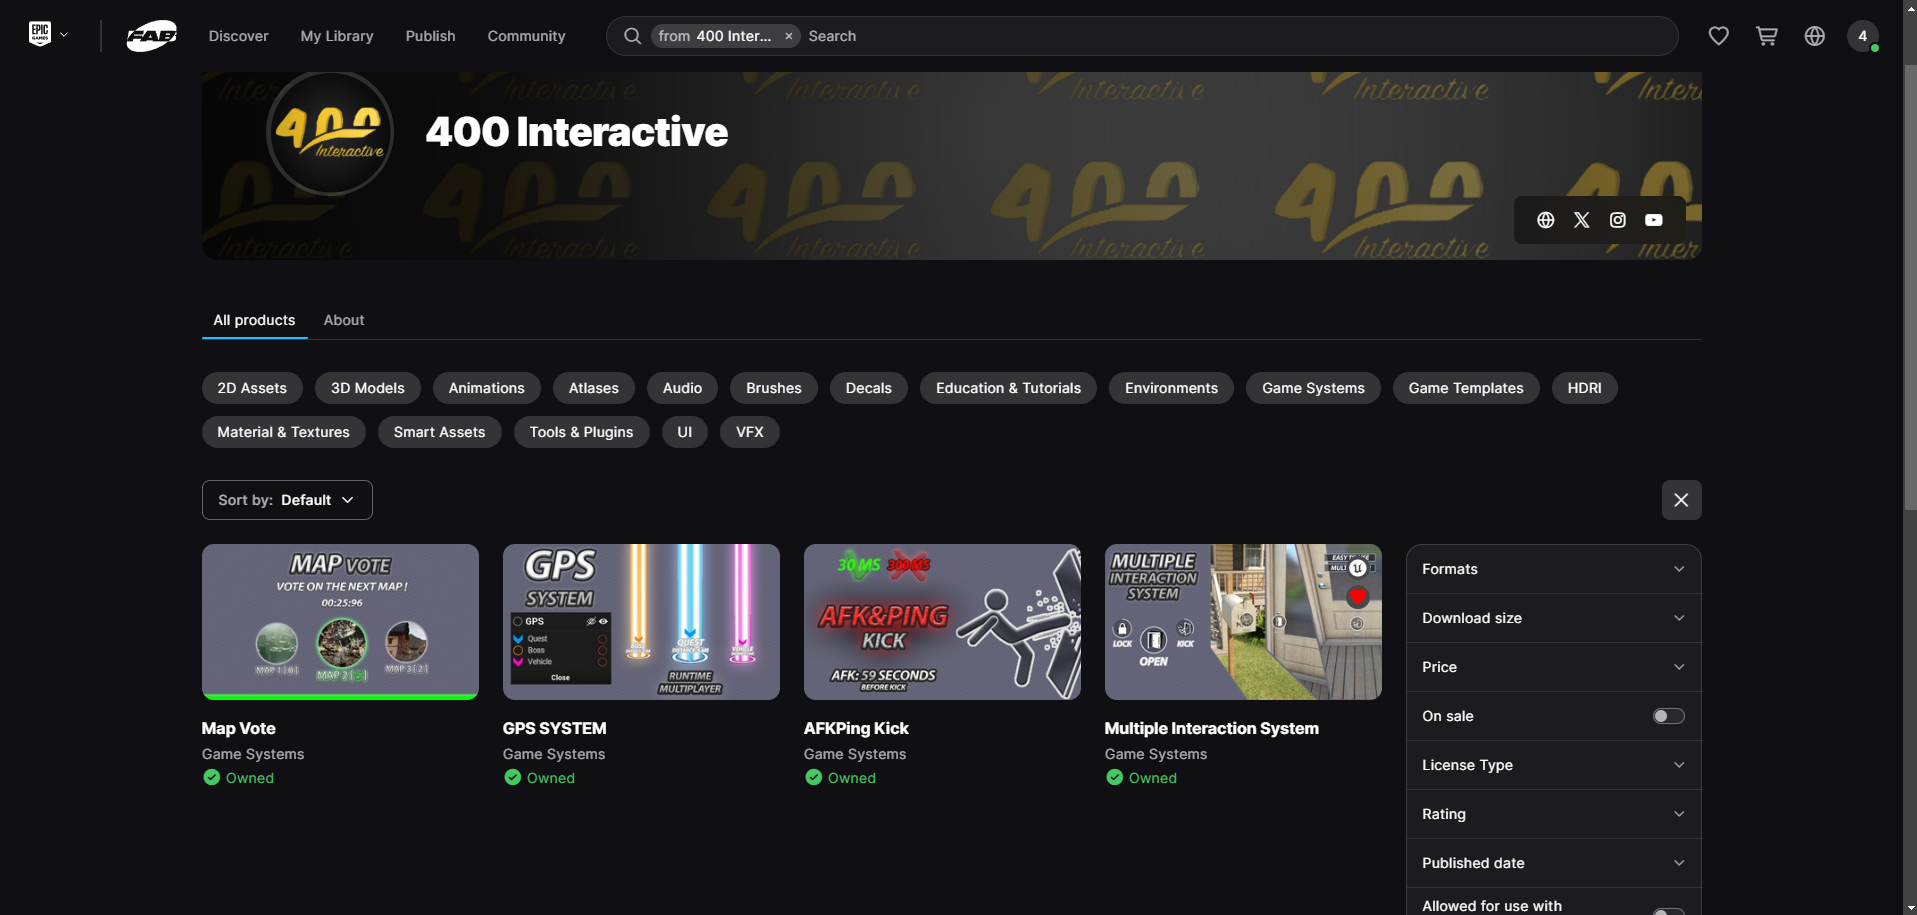
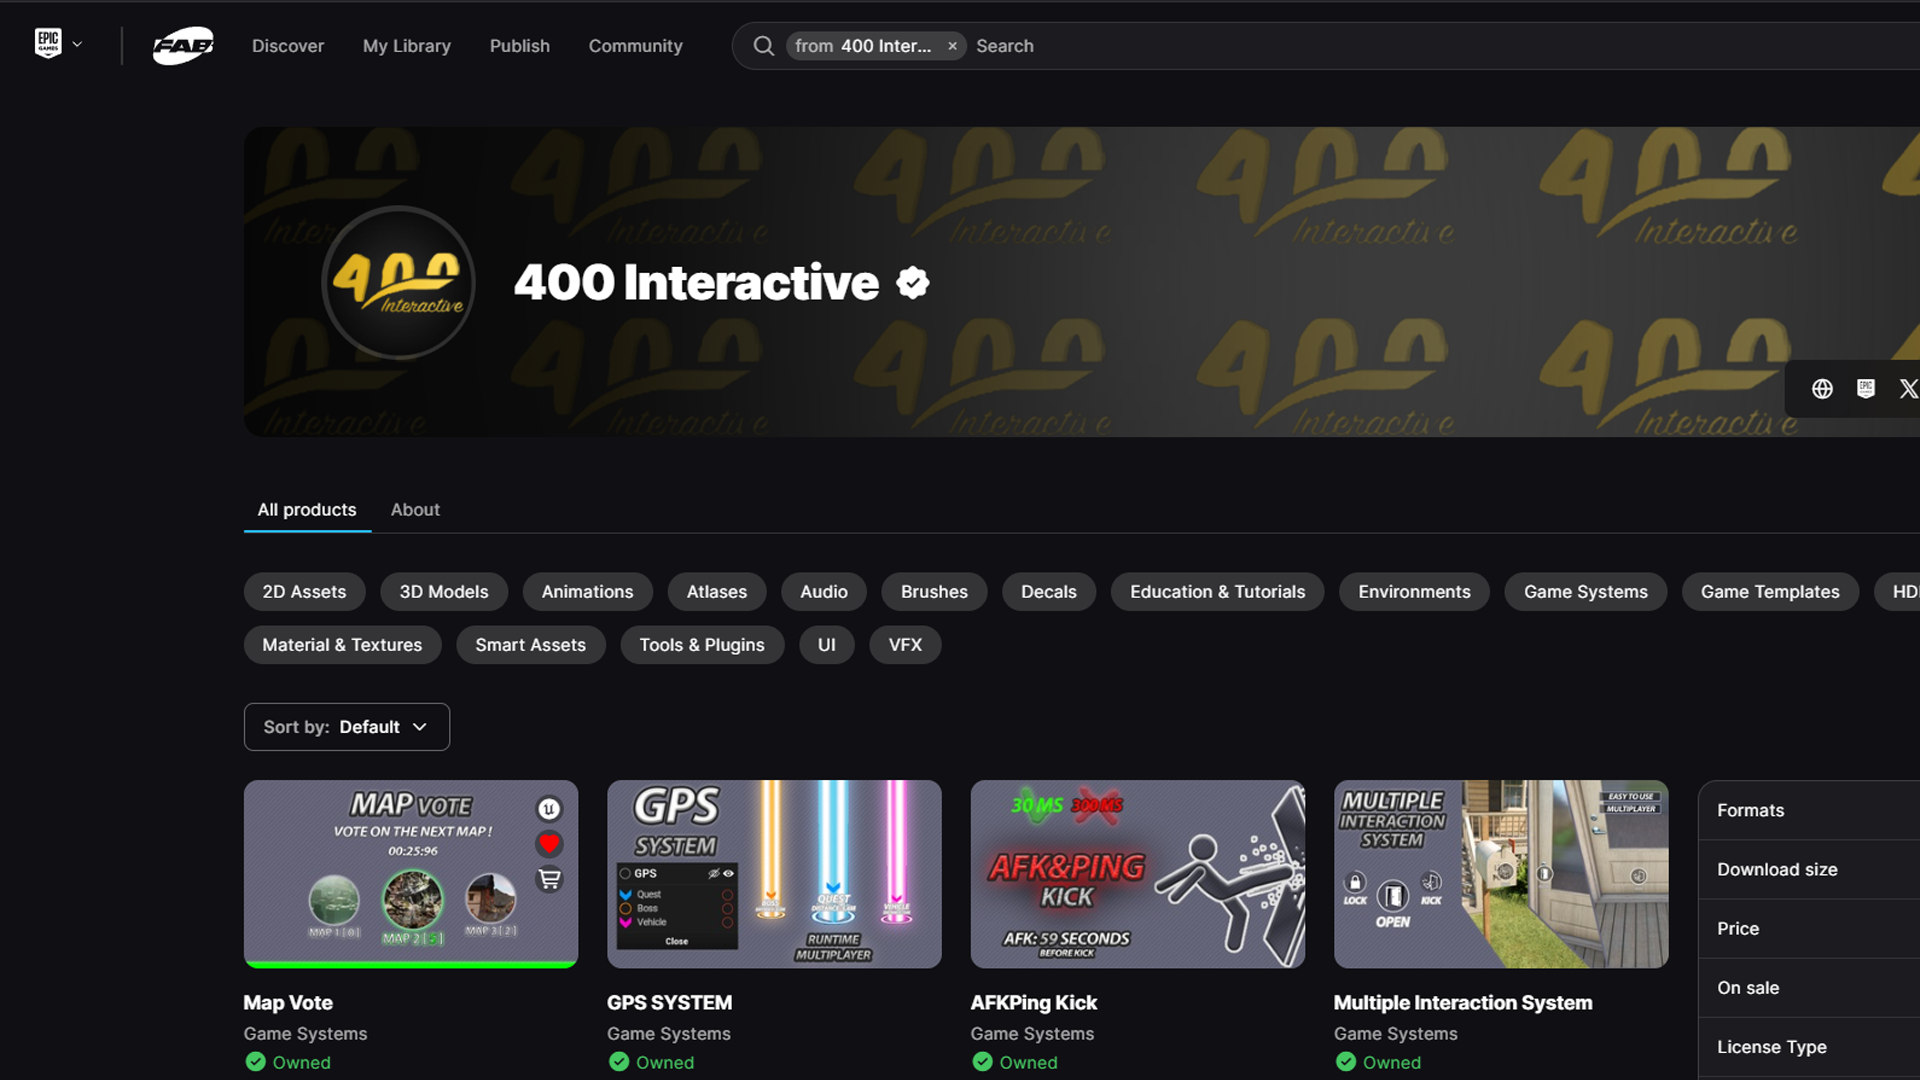
Changing the image about thumbnails

diff --git a/README.md b/README.md
@@ -15,8 +15,7 @@ This extension adds new features and improves the user experience on the Fab web
 
 - Button on thumbnails
   
-![Heart Button on Thumbnails](images/fab_extended_thumbnails.png)
-![Add to cart Button on Thumbnails](images/fab_extended_addToCartThumbnail.png)
+![Button on Thumbnails](images/fab_extended_thumbnails.png)
 
 - Button/Menu in navbar
 
